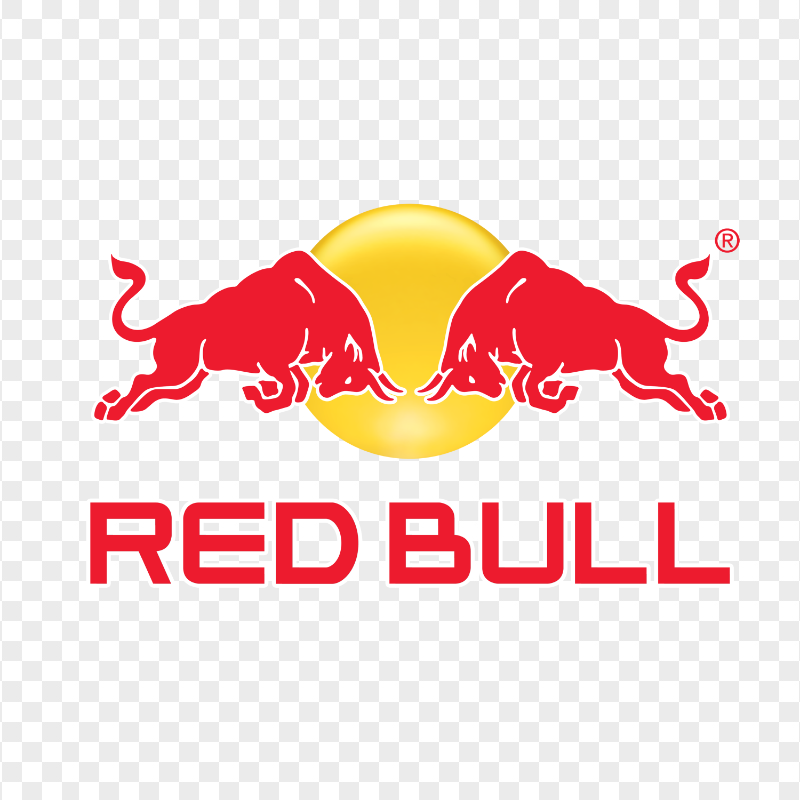
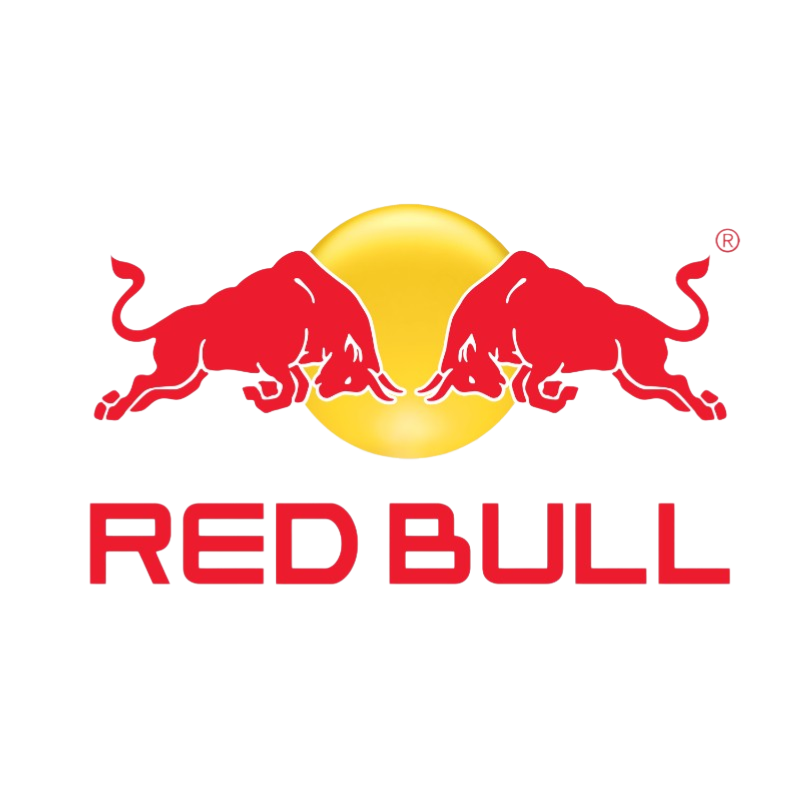
Update sponsor section visually and functionally

diff --git a/components/sponsors-section.tsx b/components/sponsors-section.tsx
@@ -1,10 +1,12 @@
+import Link from "next/link"
+
 export function SponsorsSection() {
   const sponsorLogos = [
-    { name: "WROGN", filename: "wrogn.png" },
-    { name: "PLAYO", filename: "playo.png" },
-    { name: "PROVILAC", filename: "provilac.png" },
-    { name: "RED BULL", filename: "redbull.png" },
-    { name: "FAST&UP", filename: "fastandup.png" },
+    { name: "WROGN", filename: "wrogn.png", width: "w-20 md:w-24 lg:w-28", link: "https://wrogn.in" },
+    { name: "PLAYO", filename: "playo.png", width: "w-40 md:w-56 lg:w-64", link: "https://playo.co" },
+    { name: "PROVILAC", filename: "provilac.png", width: "w-36 md:w-48 lg:w-56", link: "https://provilac.com" },
+    { name: "RED BULL", filename: "redbull.png", width: "w-24 md:w-32 lg:w-36", link: "https://www.redbull.com" },
+    { name: "INHALE", filename: "inhale.png", width: "w-28 md:w-36 lg:w-40", link: "https://inhaleindia.in/" },
   ]
 
   return (
@@ -25,20 +27,28 @@ export function SponsorsSection() {
           <div className="flex animate-marquee gap-24 min-w-max px-12 items-center">
             {/* Array repeated multiple times to ensure the loop never runs out of content on ultra-wide screens */}
             {[...sponsorLogos, ...sponsorLogos, ...sponsorLogos, ...sponsorLogos].map((logo, index) => (
-              <img
-                key={index}
-                src={`/sponsors/${logo.filename}`}
-                alt={`${logo.name} Logo`}
-                className="h-16 md:h-24 lg:h-28 w-auto object-contain transition-all duration-500 grayscale opacity-70 hover:grayscale-0 hover:opacity-100 hover:scale-110 hover:-translate-y-1 cursor-pointer"
-              />
+              <div key={index} className="flex justify-center items-center w-32 md:w-40 lg:w-48 h-16 md:h-20 lg:h-24 shrink-0">
+                <a href={logo.link} target={logo.link === "#" ? "_self" : "_blank"} rel="noopener noreferrer" className="flex items-center justify-center">
+                  <img
+                    src={`/sponsors/${logo.filename}`}
+                    alt={`${logo.name} Logo`}
+                    className={`${logo.width} max-w-none object-contain mix-blend-multiply transition-all duration-500 hover:scale-110 hover:-translate-y-1 cursor-pointer`}
+                  />
+                </a>
+              </div>
             ))}
           </div>
         </div>
 
-        <div className="mt-12 p-6 bg-primary text-white border-2 border-primary hover:bg-white hover:text-primary transition-colors duration-300">
-          <h3 className="font-black text-xl md:text-2xl mb-2">WANT TO PARTNER WITH US?</h3>
-          <p className="font-mono text-sm">We're always looking for brands that align with our cult energy.</p>
-        </div>
+        <Link href="/contact" className="block mt-12 p-6 bg-primary text-white border-2 border-primary hover:bg-white hover:text-primary transition-all duration-300 hover:-translate-y-1 hover:shadow-[8px_8px_0_0_#dc2626] cursor-pointer group">
+          <div className="flex justify-between items-center">
+            <div>
+              <h3 className="font-black text-xl md:text-2xl mb-2 group-hover:underline decoration-2 underline-offset-4">WANT TO PARTNER WITH US?</h3>
+              <p className="font-mono text-sm opacity-90">We're always looking for brands that align with our cult energy. Click to collab.</p>
+            </div>
+            <div className="hidden sm:block text-2xl font-black group-hover:translate-x-2 transition-transform duration-300">→</div>
+          </div>
+        </Link>
       </div>
     </section>
   )
